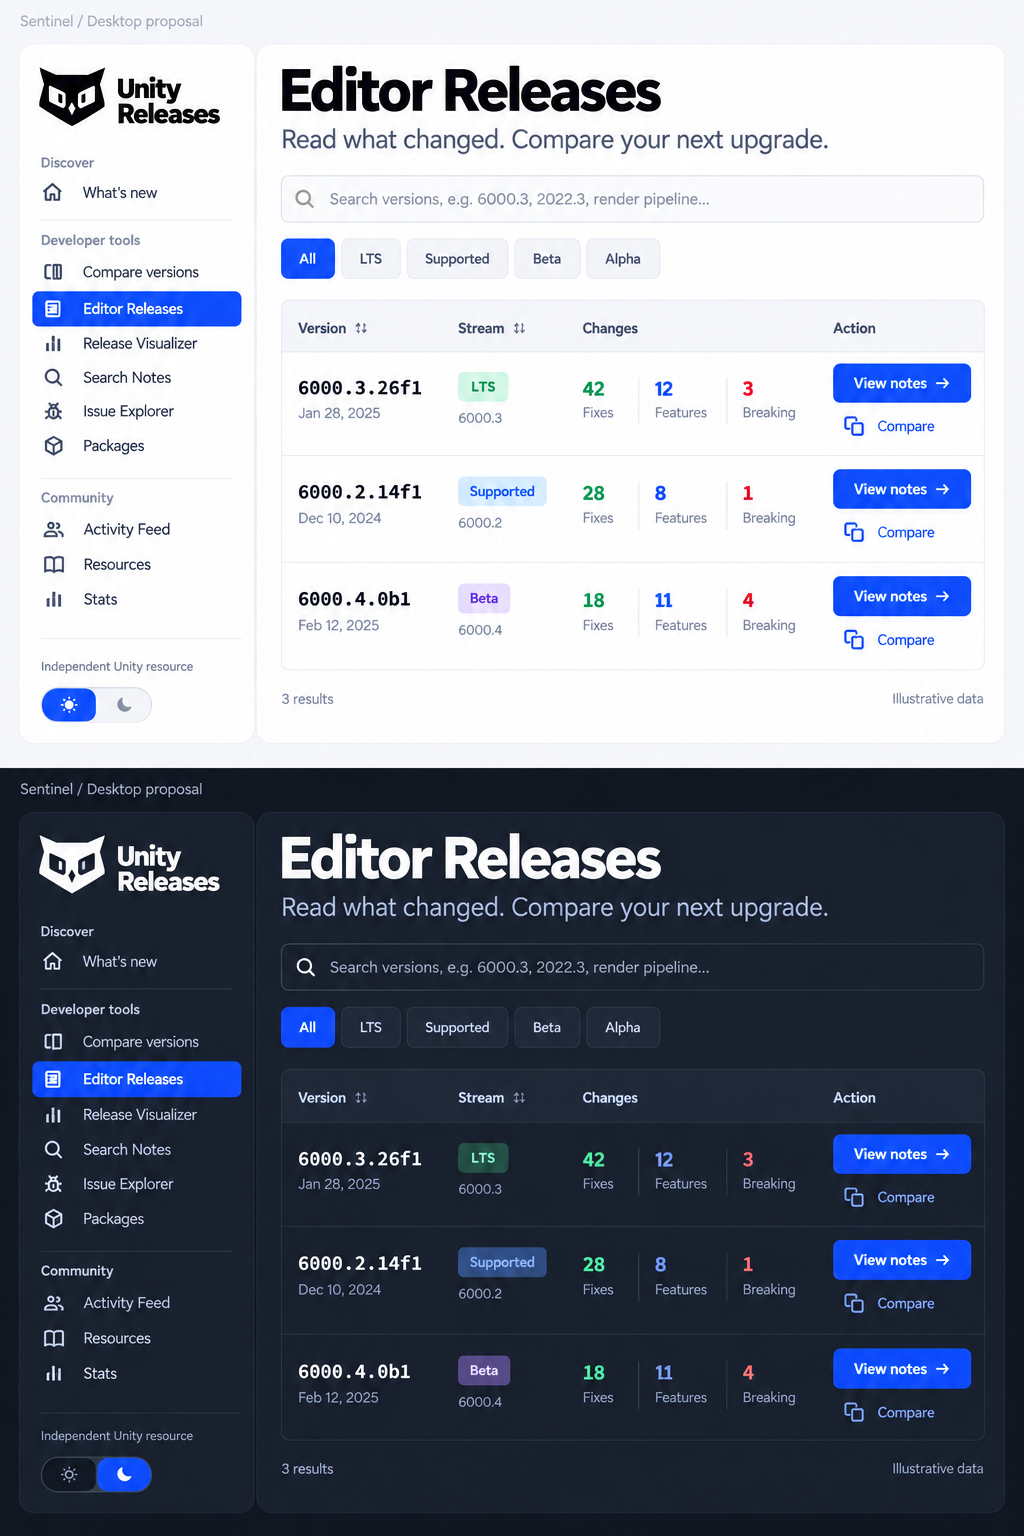
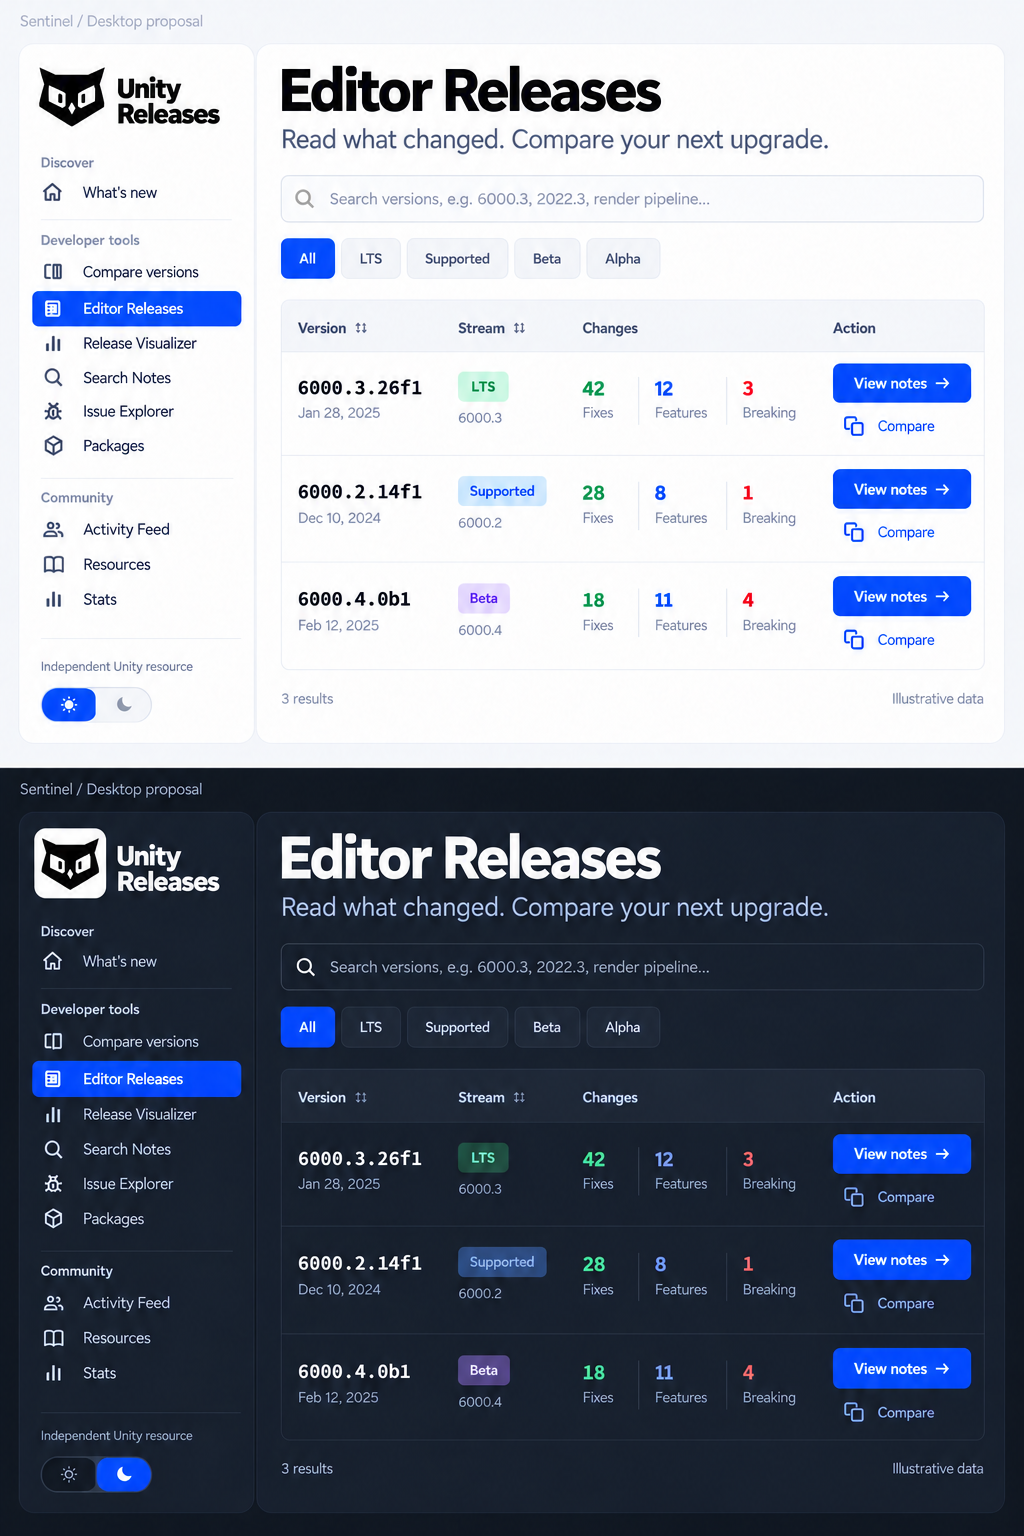
Keep Sentinel owl black on white across brand previews

diff --git a/docs/branding/sentinel/README.md b/docs/branding/sentinel/README.md
@@ -4,17 +4,19 @@ Selected direction: **Original refined**, row 01 of [selection-reference.png](se
 
 ## Design set
 
-- [Identity board](identity.png): logo arrangements, monochrome and reversed marks, favicon and app-icon concepts, colors and typography.
+- [Identity board](identity.png): logo arrangements, black-on-white marks on light, blue and dark surfaces, favicon and app-icon concepts, colors and typography.
 - [Desktop proposal](desktop.png): release browser in light and dark themes.
 - [Mobile and sharing proposal](mobile-social.png): mobile release browser, social card and browser icon.
 
-Generated with the built-in image generation tool. Exact prompts are in [prompts.json](prompts.json). These PNGs are design proposals, not production logo exports or screenshots of an implemented site. Dates, counts, stream assignments and release descriptions are illustrative.
+Generated with the built-in image generation tool. Original prompts are in [prompts.json](prompts.json); the current board edits are in [prompts-v2.json](prompts-v2.json). These PNGs are design proposals, not production logo exports or screenshots of an implemented site. Dates, counts, stream assignments and release descriptions are illustrative.
 
 ## Identity
 
 Keep the chosen owl's angular ears, flat crown, pointed chin, slanted eye sockets, vertical pupils and diamond beak. Use one canonical vector master when implementing; generated repetitions have small differences and must not become separate production marks.
 
-Use Inter for the wordmark and UI, with the existing JetBrains Mono/system monospace stack for versions. The generated mobile board says “Inter Mono”; that label is not the intended font specification. Verify font loading during implementation rather than assuming the existing CSS font names load font files.
+Always use a black owl with white eye areas, black pupils and a white diamond beak. On blue or dark surfaces, place the black owl on a white rounded-square tile. Never invert the face colors. The wordmark may be white on dark backgrounds. The selection reference is historical; its inverse examples are superseded by this rule.
+
+Use Inter for the wordmark and UI, with the existing JetBrains Mono/system monospace stack for versions. Verify font loading during implementation rather than assuming the existing CSS font names load font files.
 
 Suggested short brand line: **Know what changed.**
 
@@ -37,12 +39,12 @@ Use blue for primary actions, links and active selection. Keep fixes, warnings a
 - Retain the existing home page and release-browser behaviors. These proposals show the releases route, not a replacement home page.
 - Use compact tables on desktop and readable entries on mobile.
 - Mobile header: owl, wordmark and menu control. Avoid a persistent desktop sidebar.
-- Use white-on-cobalt icons and a quiet sharing card with the owl, name, short brand line and domain.
+- Use black-on-white tile icons, with cobalt only around the tile, and a quiet sharing card with the owl, name, short brand line and domain.
 - Preserve independent-project disclosure.
 
 ## Production handoff
 
-Reconstruct and approve one SVG master from the selected row before exporting variants. Produce monochrome, inverse, horizontal and stacked marks from it. Export and inspect actual 16/32/48px favicons, 180px Apple touch icon, 192/512px app icons and 1200×630 sharing image. Dimensions printed inside the boards are proposed export sizes, not delivered standalone assets.
+Reconstruct and approve one SVG master from the selected row before exporting variants. Produce black-on-white, white-tile, horizontal and stacked marks from it; do not produce inverse owl marks. Export and inspect actual 16/32/48px favicons, 180px Apple touch icon, 192/512px app icons and 1200×630 sharing image. Dimensions printed inside the boards are proposed export sizes, not delivered standalone assets.
 
 Use at least one quarter of the mark height for clearspace; the generated identity board's full-height clearspace label is too generous for navigation. Inspect small-icon eye and beak legibility at actual size.
 
